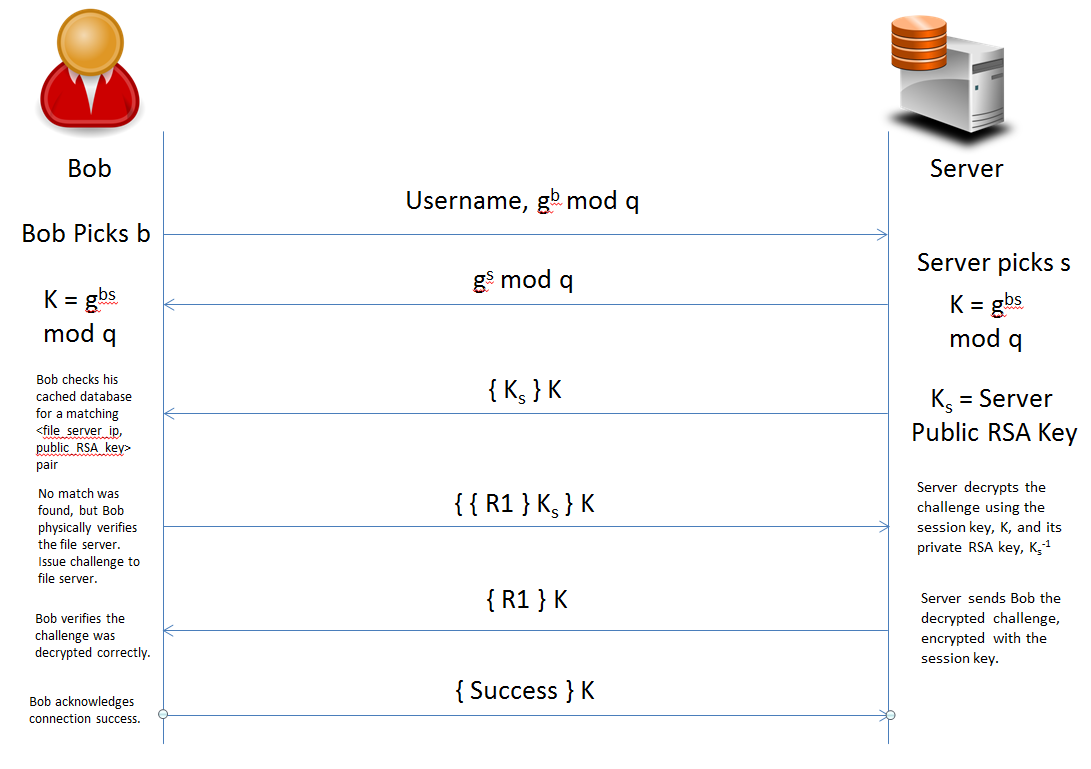
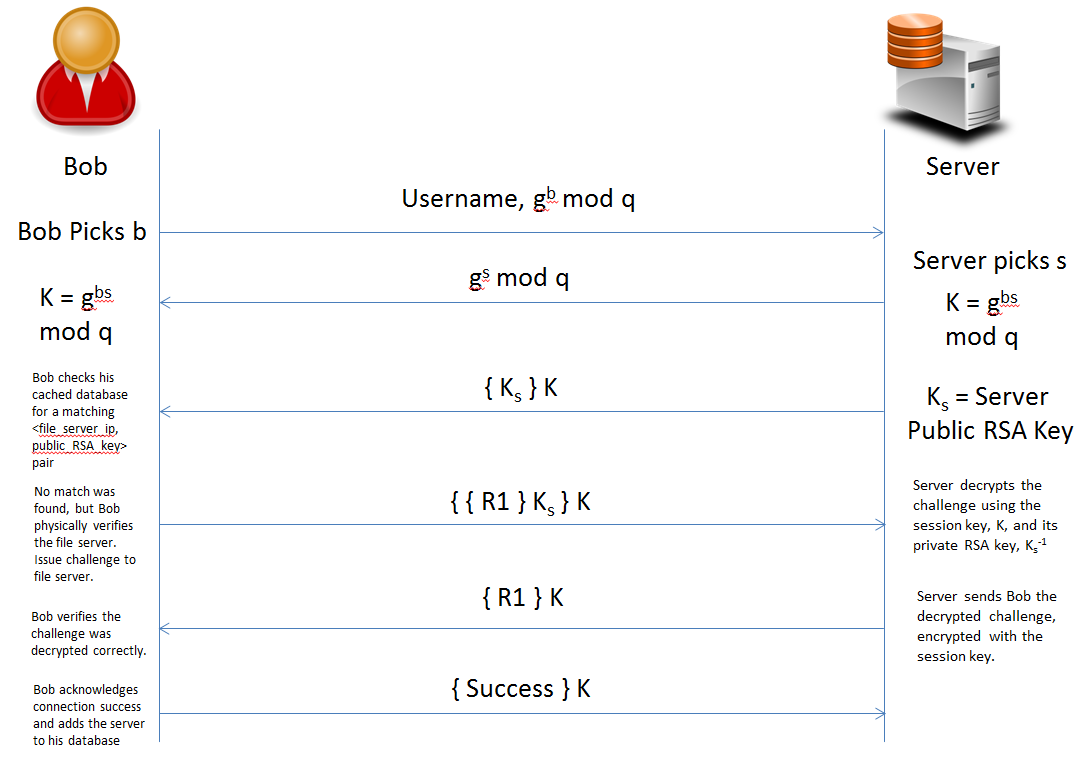
Small typo and image fix for T3

diff --git a/doc/phase3-writeup.htm b/doc/phase3-writeup.htm
@@ -359,7 +359,7 @@ server, a "u" the user, and an "f" a file server.</p>
   Bob needs to verify that the file server he is connecting to is indeed 
   the file server they claim to be. This can be accomplished with public key 
   cryptography via RSA with 2048-bit keys, as 1024-bit RSA keys were recently proven 
-  by the NSA to be insecure. The file server first sends Bob its public RSA ey, 
+  by the NSA to be insecure. The file server first sends Bob its public RSA key, 
   <b>K<sub>s</sub></b>, encrypted with the session key, <b>K</b>. Upon receiving 
   this message, Bob decrypts <b>K<sub>s</sub></b> and then checks his cached table 
   of &lt;file_server_ip, public_RSA_key&gt; pairs for a match. 
@@ -418,9 +418,10 @@ server, a "u" the user, and an "f" a file server.</p>
   decrypts this message using both the session key and its private RSA key, then 
   sends back to Bob the challenge <b>R1</b> encrypted with the session key. If the 
   challenge was successfully decrypted by the file server, the file server 
-  is authenticated and Bob sends a message of success to the file server. Bob and the 
-  file server are then free to communicate using their session key until the 
-  connection is terminated.
+  is authenticated and Bob sends a message of success to the file server. Bob also 
+  adds a new pair to his cached table of &lt;file_server_ip, public_RSA_key&gt; 
+  to reflect the new verified server. Bob and the file server are then free to 
+  communicate using their session key until the connection is terminated.
 
   <br><br>
   This case is represented by the following diagram:
